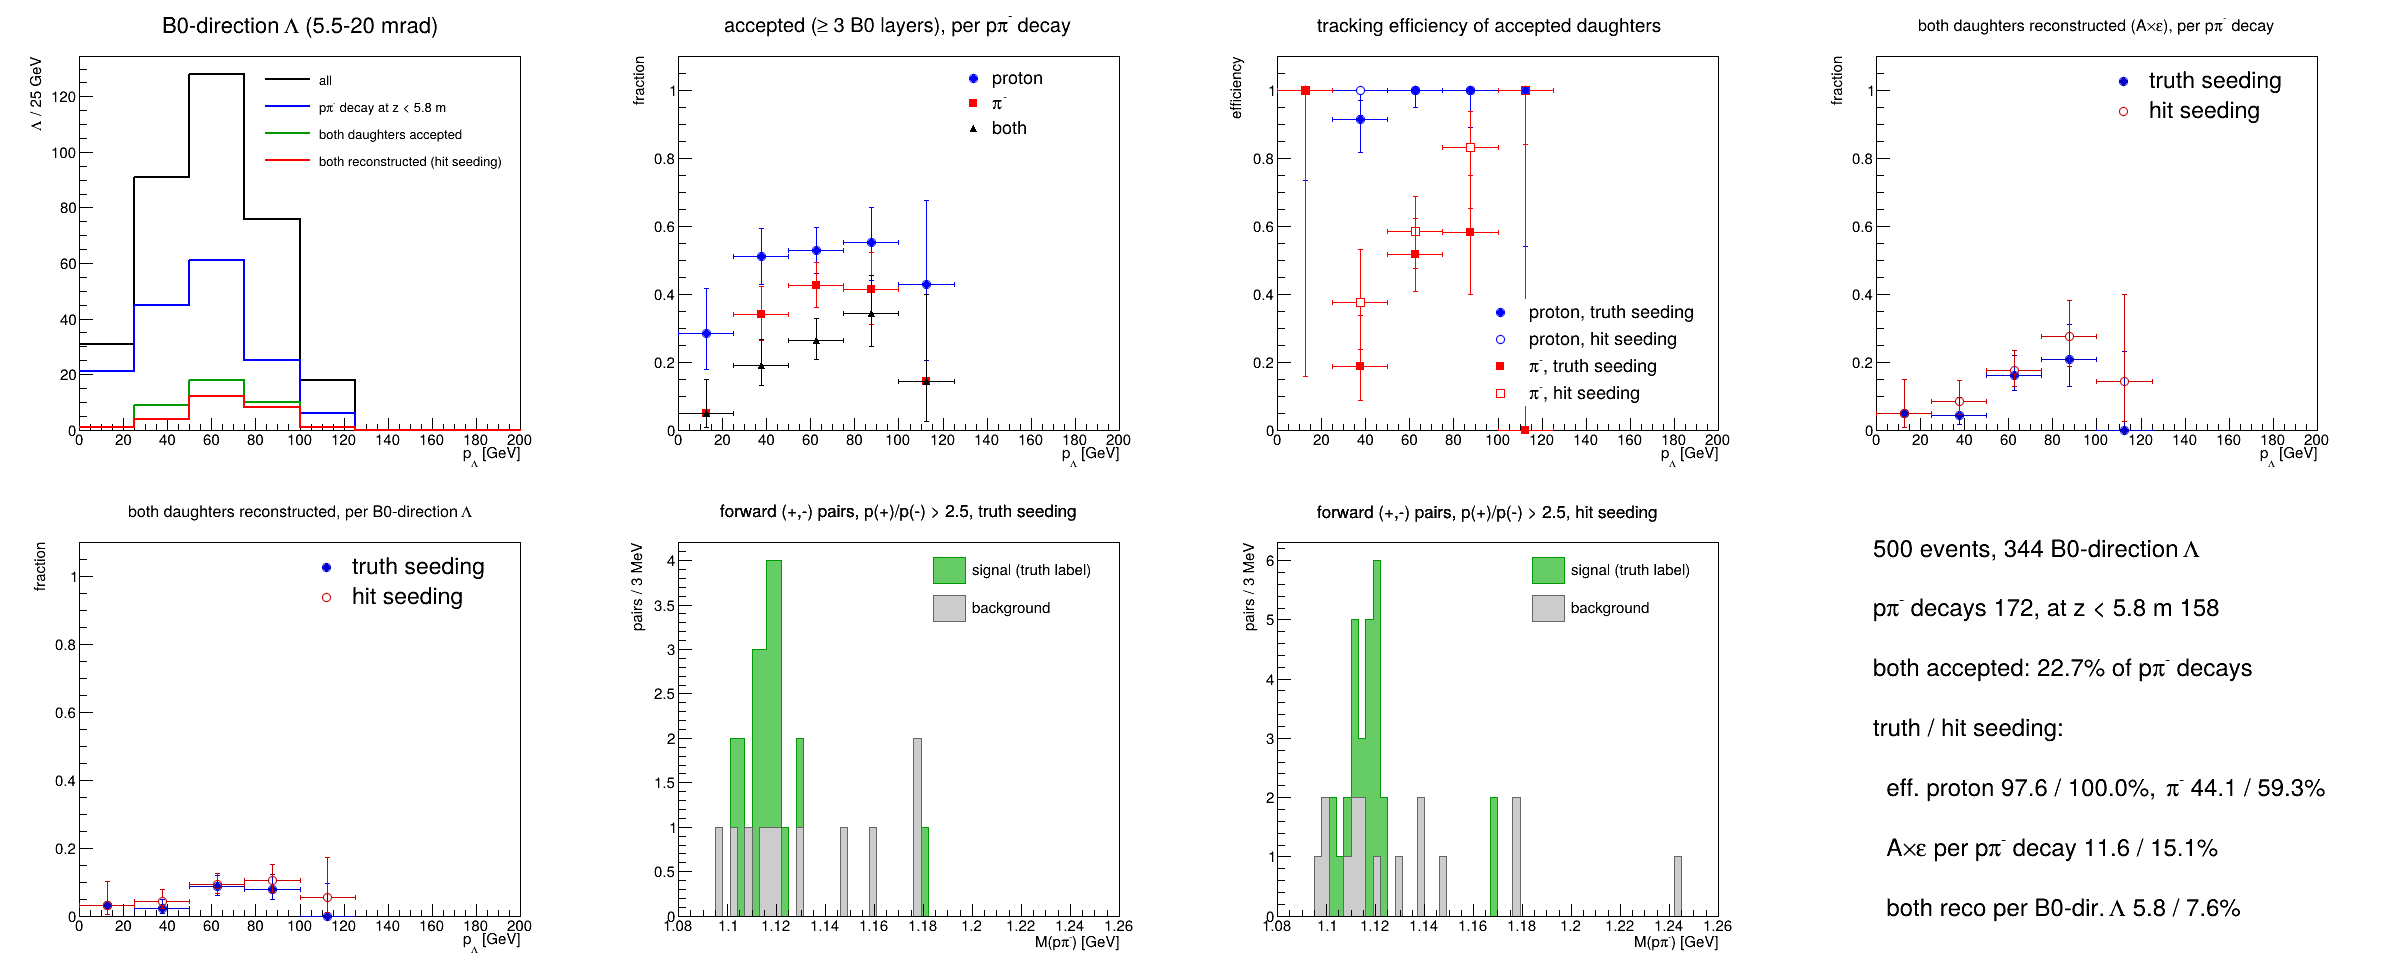
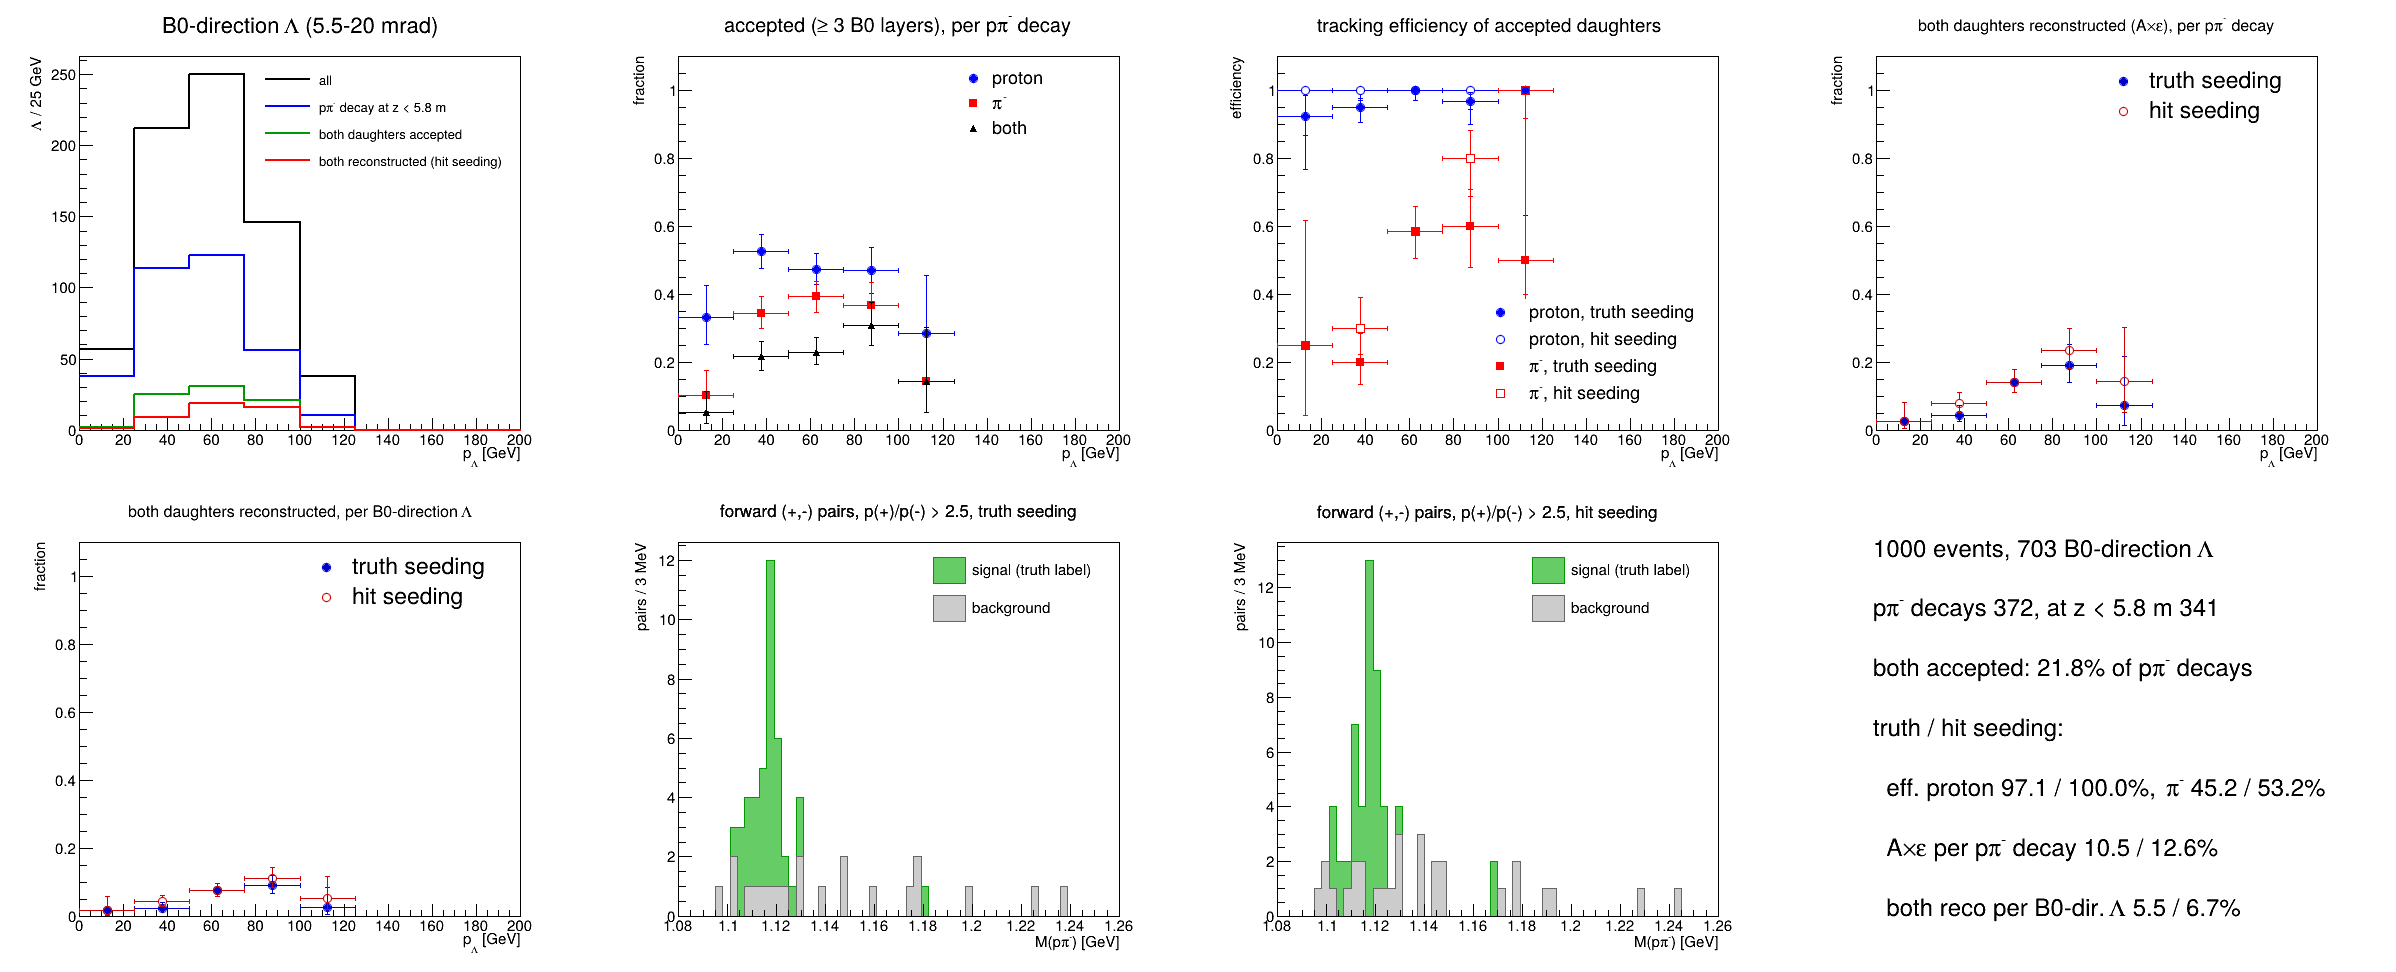
DIS 9x130: both seeds (1000 events, s402 from condor); results table in summary

diff --git a/notes/claude_summary.md b/notes/claude_summary.md
@@ -135,7 +135,7 @@ particle gun (p = 50–100 GeV, θ = 8–18 mrad, 25 mrad crossing angle, 18×27
   the first report: the "other" Λs interacted (none left the world volume), and "88–90 % of p π⁻ decays
   before the B0" is conditional; per generated Λ the decay law holds.
 
-## 10. Λ-tagged DIS (2026-11-12, running)
+## 10. Λ-tagged DIS (2026-11-12 – 11-15)
 - From the particle gun to a physics process: Pythia8 8.316 (container) NC DIS, ep 18×275,
   Q² > 1 GeV², ePIC campaign settings; Λ stable in Pythia (Geant4 decays it); only events with a Λ
   at θ < 25 mrad are kept (`scripts/gen/`). No beam effects; ddsim applies the crossing angle
@@ -158,6 +158,26 @@ particle gun (p = 50–100 GeV, θ = 8–18 mrad, 25 mrad crossing angle, 18×27
   EICrecon#2901 (B0 truth seeds for secondaries, merged 2026-10-31) and has no hit seeding, so the B0
   tracking efficiency of the daughters is ~0 there: usable for rates, spectra and acceptance only.
   No campaign has the new B0 geometry or 18×275 ep DIS.
+
+- Results (results/09_dis; own samples 1000 events each, the same events in both geometries;
+  9×130 seed 402 ran on HTCondor, `scripts/condor/dis_lambda.sub`):
+
+  | | 18×275 old | 18×275 new | 9×130 old | 9×130 new |
+  |---|---|---|---|---|
+  | B0-direction Λ (5.5–20 mrad) | 417 | 417 | 703 | 703 |
+  | p π⁻ decays / before z = 5.8 m | 216 / 192 | 206 / 183 | 378 / 339 | 372 / 341 |
+  | both daughters accepted, per p π⁻ | 53.2 % | 16.0 % | 51.9 % | 21.8 % |
+  | eff p, truth / hit seeding | 93.5 / 98.8 % | 87.2 / 100 % | 95.1 / 99.7 % | 97.1 / 100 % |
+  | eff π⁻, truth / hit | 55.7 / 67.9 % | 52.6 / 56.1 % | 51.1 / 58.1 % | 45.2 / 53.2 % |
+  | A×ε both, per p π⁻ decay, truth / hit | 28.7 / 36.1 % | 7.3 / 10.2 % | 25.9 / 31.2 % | 10.5 / 12.6 % |
+  | both reco per B0-direction Λ, truth / hit | 14.9 / 18.7 % | 3.6 / 5.0 % | 13.9 / 16.8 % | 5.5 / 6.7 % |
+  | mass ±10 MeV, hit seeding, S / B | 54 / 54 | 18 / 10 | 89 / 24 | 34 / 8 |
+
+  Campaign SIDIS 9×130 (19 900 events): 3.4 % of events have a B0-direction Λ; both daughters
+  accepted 48.3 % of p π⁻ (as in our samples); truth-seeded eff p 6.4 %, π⁻ 3.0 %, A×ε 2.0 %.
+- The new geometry loses acceptance mainly through its ±45° φ gap (beam frame, electron side:
+  0 % there, 27 % of the decays) and at small θ (5.5–8 mrad: 11 vs 51 % at 18×275), where DIS Λs
+  pile up; hence a larger drop than for the gun. A×ε rises with p_Λ (π⁻ efficiency).
 
 ## Open points
 - Why the CKF loses soft π⁻ (rerun with CKF debug output on a few events).

diff --git a/notes/claude_log.md b/notes/claude_log.md
@@ -503,3 +503,8 @@ Macro `~/private/eic/compare_tracks.C` (run in `~/private/eic`). Both use the co
   - vs p_Λ: rises with momentum (π⁻ efficiency): old ~12–20 % below 50 GeV → ~50–60 % at 100–160 GeV; new ~2 % → ~15–35 %.
   - Montages now old above new (each set 4 × 2). Note: montage in an LCG-sourced shell loses its fonts (magic.xml/type.xml warnings) → run it in a clean shell.
 - Condor: watcher now reads the job's own event log (005/009/012 lines) — the condor_q-based one gave a false "finished" (query returned nothing). Both condor jobs still idle at ~17:30.
+- 2026-11-14: condor jobs ran (both started 06:12 after ~15 h idle). 19773708 (9x130 s402): 37 min on 4 CPUs, ALL_OK, outputs in `$EIC_DATA/lambda_dis_9x130`. Test job 19768902 (3 events) also done (`/eos/user/g/gninio/eic/condor_test`). ⇒ condor chain works.
+- 2026-11-15: **Results 9x130, s401 + s402** (1000 events, 703 B0-direction Λs; 70.2 % of the kept events have one):
+  - old: p π⁻ 378, before 5.8 m 339, both accepted 196 (51.9 %); eff truth/hit p 95.1/99.7 %, π⁻ 51.1/58.1 %; A×ε per p π⁻ 25.9/31.2 %; both reco per B0-direction Λ 13.9/16.8 %; ±10 MeV truth S 83 B 13, hit S 89 B 24.
+  - new: p π⁻ 372, before 341, both accepted 81 (21.8 %); eff p 97.1/100 %, π⁻ 45.2/53.2 %; A×ε 10.5/12.6 %; per Λ 5.5/6.7 %; ±10 MeV truth S 31 B 6, hit S 34 B 8.
+  - Consistent with s401 alone. Montage (old above new) shown. claude_summary.md section 10: results table for both energies + campaign, section marked done.

diff --git a/notes/claude_commands.md b/notes/claude_commands.md
@@ -280,3 +280,16 @@ root -l -b -q 'macros/dis/lambda_dis.C+("/eos/user/g/gninio/eic/campaign/sidis_9
 scripts/make_results.sh 09
 # when was EICrecon#2901 (B0 truth seeds for secondaries) merged?
 curl -s https://api.github.com/repos/eic/EICrecon/pulls/2901 | python3 -c "import json,sys; print(json.load(sys.stdin)['merged_at'])"
+
+## 2026-11-15: 9x130 with both seeds
+```bash
+# condor job status from its event log (works when condor_q is slow/empty)
+grep -h -E "^(001|005|009|012) " ~/private/eic/condor_logs/dis.19773708.log
+# rerun the 9x130 analysis only (same as make_results.sh 09, 9x130 part)
+cd ~/private/eic/eic-B0-detector && source scripts/env.sh && source "$EIC_ROOT_SETUP"
+for g in old new; do
+  root -l -b -q "macros/dis/lambda_dis.C+(\"$EIC_DATA/lambda_dis_9x130/dis_lambda_9x130_${g}_s40?.eicreconpr3116.edm4eic.root\",\"results/09_dis/dis_9x130_$g\")"
+done
+# montage in a clean shell (no LCG)
+montage dis_9x130_old.png dis_9x130_new.png -tile 1x2 -geometry +0+10 side_dis_9x130.png
+```
